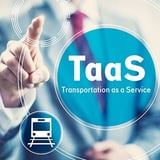
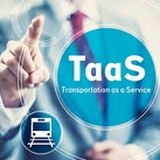
feat(apps): circular quick-action badges and art for every tile
Round out the quick-action grid so each app carries its own artwork
instead of a generic line icon, and turn the badge shape into a circle
so the grid reads as one family.

- new 160x160 badges for Airdrop, NFT Mkt, Playground, SDG Impact and
  KAI Web; swapped in fresh art for Vaults, TaaS, Scan & Pay and
  Products, so every tile now has a picture
- QuickActions.tsx and the /apps registry both point at those badges;
  the three conservation cards keep their lucide icons and pick up the
  circular shape from CSS on their own
- .qa3-app-icon, .qa3-card-icon, .apps-tile-icon and the <img> inside
  them all go border-radius 50%, with the badge's hover lift softened
  to -1px/1.04 since a full disc reads heavier than a rounded square

diff --git a/avax-frontend/src/app/globals.css b/avax-frontend/src/app/globals.css
@@ -941,7 +941,7 @@ body {
 .qa3-card:active, .qa3-app:active { transform: scale(0.97); }
 .qa3-card:focus-visible, .qa3-app:focus-visible, .qa3-chip:focus-visible { outline: 2px solid var(--home-accent); outline-offset: 2px; }
 .qa3-card-icon {
-  width: 36px; height: 36px; border-radius: 10px; display: flex; align-items: center; justify-content: center;
+  width: 36px; height: 36px; border-radius: 50%; display: flex; align-items: center; justify-content: center;
   color: var(--tint); background: color-mix(in srgb, var(--tint) 18%, #0E2418);
   border: 1px solid color-mix(in srgb, var(--tint) 22%, transparent);
 }
@@ -965,18 +965,20 @@ body {
 }
 .qa3-app:hover { background: rgba(255,255,255,0.04); }
 .qa3-app-icon {
-  width: 52px; height: 52px; border-radius: 16px; display: flex; align-items: center; justify-content: center;
+  width: 52px; height: 52px; border-radius: 50%; display: flex; align-items: center; justify-content: center;
   color: var(--tint);
   background: color-mix(in srgb, var(--tint) 18%, #0E2418);
   border: 1px solid color-mix(in srgb, var(--tint) 22%, transparent);
   transition: transform .15s ease, background-color .15s ease, color .15s ease;
 }
-.qa3-app:hover .qa3-app-icon { transform: translateY(-2px); background: var(--tint); color: #0E2418; }
-/* Tiles with a real picture instead of a line icon: fill the badge and clip
-   to its corners so the photo reads as the app's own badge. */
+/* Circular badges get a gentler lift than the old rounded squares — a full
+   disc reads heavier, so it rises less and settles instead of bouncing. */
+.qa3-app:hover .qa3-app-icon { transform: translateY(-1px) scale(1.04); background: var(--tint); color: #0E2418; }
+/* Tiles with a real picture instead of a line icon: fill the disc and clip to
+   it so the photo reads as the app's own badge. */
 .qa3-card-icon img, .qa3-app-icon img {
   display: block; width: 100%; height: 100%;
-  object-fit: cover; object-position: center; border-radius: inherit;
+  object-fit: cover; object-position: center; border-radius: 50%;
 }
 .qa3-app-name {
   font-size: 11.5px; font-weight: 600; color: var(--home-text); text-align: center; line-height: 1.25;
@@ -996,7 +998,7 @@ body {
 /* Apps that ship a real picture instead of a line icon. */
 .apps-tile-icon {
   display: block; width: 44px; height: 44px; object-fit: cover; object-position: center;
-  border-radius: 12px; margin-bottom: 4px;
+  border-radius: 50%; margin-bottom: 4px;
 }
 
 

diff --git a/avax-frontend/src/components/shared/QuickActions.tsx b/avax-frontend/src/components/shared/QuickActions.tsx
@@ -47,16 +47,16 @@ export const QUICK_GROUPS: Group[] = [
     items: [
       { name: 'Scan & Pay', hint: 'M-Pesa and QR', href: '/pay', icon: ScanLine, image: '/images/apps/scan-pay.jpg' },
       { name: 'Products', hint: 'Buy with yBOB', href: '/products', icon: CircleDollarSign, image: '/images/apps/products.jpg' },
-      { name: 'NFT Mkt', hint: 'Conservation NFTs', href: '/connft', icon: ImageIcon },
-      { name: 'Airdrop', hint: 'Daily drop and points', href: '/mine', icon: Gift },
+      { name: 'NFT Mkt', hint: 'Conservation NFTs', href: '/connft', icon: ImageIcon, image: '/images/apps/nft-mkt.jpg' },
+      { name: 'Airdrop', hint: 'Daily drop and points', href: '/mine', icon: Gift, image: '/images/apps/airdrop.jpg' },
     ],
   },
   {
     title: 'Explore', tint: '#6FC3B8',
     items: [
-      { name: 'Playground', hint: 'Try KAI operations', href: '/nuvari', icon: FlaskConical },
-      { name: 'SDG Impact', hint: 'Impact by goal', href: '/sdg', icon: Globe },
-      { name: 'KAI Web', hint: 'The KAI website', href: '/kai', icon: Link2 },
+      { name: 'Playground', hint: 'Try KAI operations', href: '/nuvari', icon: FlaskConical, image: '/images/apps/playground.jpg' },
+      { name: 'SDG Impact', hint: 'Impact by goal', href: '/sdg', icon: Globe, image: '/images/apps/sdg.jpg' },
+      { name: 'KAI Web', hint: 'The KAI website', href: '/kai', icon: Link2, image: '/images/apps/kai-web.jpg' },
     ],
   },
 ];

diff --git a/avax-frontend/src/app/apps/page.tsx b/avax-frontend/src/app/apps/page.tsx
@@ -45,16 +45,16 @@ const GROUPS: AppGroup[] = [
     items: [
       { name: 'Scan & Pay', href: '/pay',      icon: ScanLine, image: '/images/apps/scan-pay.jpg' },
       { name: 'Products',   href: '/products', icon: CircleDollarSign, image: '/images/apps/products.jpg' },
-      { name: 'NFT Mkt',    href: '/connft',   icon: ImageIcon },
-      { name: 'Airdrop',    href: '/mine',     icon: Gift },
+      { name: 'NFT Mkt',    href: '/connft',   icon: ImageIcon, image: '/images/apps/nft-mkt.jpg' },
+      { name: 'Airdrop',    href: '/mine',     icon: Gift, image: '/images/apps/airdrop.jpg' },
     ],
   },
   {
     title: 'Explore',
     items: [
-      { name: 'Playground', href: '/nuvari', icon: FlaskConical },
-      { name: 'SDG Impact', href: '/sdg',    icon: Globe },
-      { name: 'KAI Web',    href: '/kai',    icon: Link2 },
+      { name: 'Playground', href: '/nuvari', icon: FlaskConical, image: '/images/apps/playground.jpg' },
+      { name: 'SDG Impact', href: '/sdg',    icon: Globe, image: '/images/apps/sdg.jpg' },
+      { name: 'KAI Web',    href: '/kai',    icon: Link2, image: '/images/apps/kai-web.jpg' },
     ],
   },
 ];
